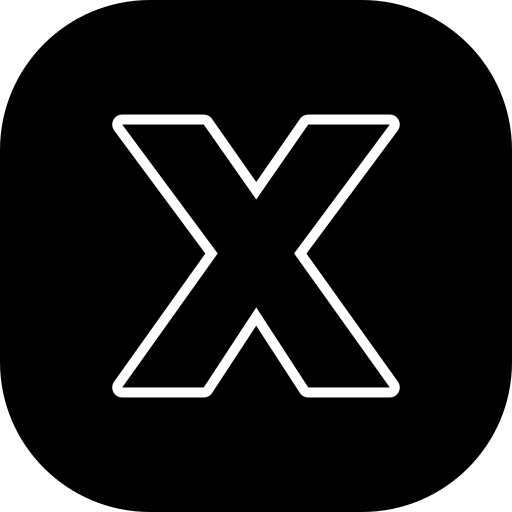
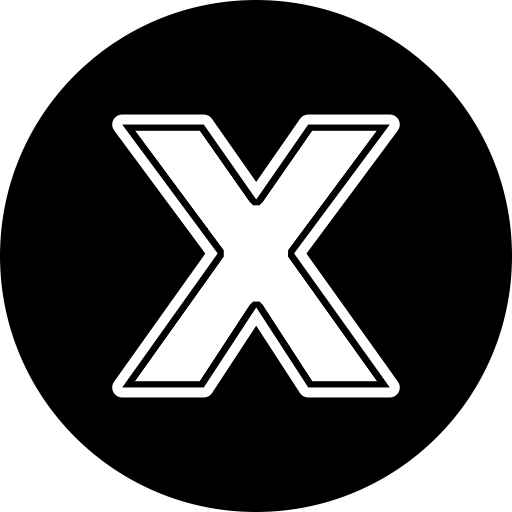
ajustes

diff --git a/js/main.js b/js/main.js
@@ -1,6 +1,6 @@
 let isAPIWorking;
-let currentArray;
 
+let currentArray;
 const products = JSON.parse(localStorage.products);
 function getProducts() {
     return new Promise((resolve, reject) => {
@@ -9,10 +9,10 @@ function getProducts() {
 
         setTimeout(() => {
             if (APIError > 0.05) {
-                resolve({error: false, products: products})
+                resolve({products: products})
             }
             else {
-                reject({error: true})
+                reject()
             }
         }, 2000);
     })
@@ -26,11 +26,10 @@ APIResponse.then((response) => {
     renderProducts(currentArray);
     verifyPage();
 })
-.catch((response) => {
-    if (response.error) {
-        errorLoadingScreen();
-        isAPIWorking = false;
-    }
+.catch(() => {
+    isAPIWorking = false;
+    errorLoadingScreen();
+    
 });
 
 //Simulación de un error en la API
@@ -205,17 +204,20 @@ function verifyPage(action) {
 const resultsIndicator = document.getElementById("filters__indicator");
 const priceRangeText = document.getElementById("price__range__text");
 const priceRangeSlider = document.getElementById("price__range");
-priceRangeSlider.addEventListener("change", filterByPrice);
-
-priceRangeSlider.addEventListener("input", () => {
-    const priceRange = priceRangeSlider.value * 6;
-    if (priceRange !== 0) {
-        priceRangeText.innerText = `Less than $${priceRange}`;
+setTimeout(() => {
+    if (isAPIWorking) {
+        priceRangeSlider.addEventListener("change", filterByPrice);
+        priceRangeSlider.addEventListener("input", () => {
+            const priceRange = priceRangeSlider.value * 6;
+            if (priceRange !== 0) {
+                priceRangeText.innerText = `Less than $${priceRange}`;
+            }
+            else {
+                priceRangeText.innerText = "Any price";
+            }
+        });
     }
-    else {
-        priceRangeText.innerText = "Any price";
-    }
-});
+}, 2000);
 
 function filterByPrice() {
     const priceRange = priceRangeSlider.value * 6;
@@ -440,9 +442,19 @@ function emptyCart() {
 //Busqueda de productos
 const searchProductsContainer = document.getElementById("search__bar__games");
 const searchBar = document.getElementById("search__bar");
-searchBar.addEventListener("input", searchProducts);
-searchBar.addEventListener("focus", searchProducts);
-searchBar.addEventListener("blur", () => {searchProductsContainer.innerHTML = ""});
+setTimeout(() => {
+    if (isAPIWorking) {
+        searchBar.addEventListener("input", searchProducts);
+        searchBar.addEventListener("focus", searchProducts);
+        searchBar.addEventListener("blur", () => {
+            if (searchBar.value.length === 0) {
+                setTimeout(() => {
+                    searchProductsContainer.innerHTML = "";
+                }, 250);
+            }
+        });
+    }
+}, 2000);
 
 function searchProducts() {
     if (searchBar.value.length > 0) {
@@ -459,11 +471,6 @@ function searchProducts() {
 
                 const h4 = document.createElement("h4");
                 h4.innerText = `${product.title}`;
-
-                const indexproduct = cart.indexOf(product);
-                if (cart[indexproduct] === product) { //Si alguno de los productos buscados ya está en el carrito
-                    h4.innerText += " (in your cart)";
-                }
 
                 h4.className = "search__bar__games__item__texts";
 

diff --git a/index.html b/index.html
@@ -7,6 +7,7 @@
         <link rel="stylesheet" type="text/css" href="https://cdn.jsdelivr.net/npm/toastify-js/src/toastify.min.css">
         <script src="js/products.js"></script>
         <link rel="stylesheet" href="css/styles.css">
+        <link rel="shortcut icon" href="media/x_icon.png" type="image/x-icon">
         <title>GameX · Home</title>
     </head>
     <body class="scroll" id="body">
@@ -93,9 +94,7 @@
 
                             <!-- ERROR -->
                             <div id="error__elements">
-                                <svg xmlns="http://www.w3.org/2000/svg" height="50px" viewBox="0 -960 960 960" width="50px" fill="red"><path d="M479.98-280q14.02 0 23.52-9.48t9.5-23.5q0-14.02-9.48-23.52t-23.5-9.5q-14.02 0-23.52 9.48t-9.5 23.5q0 14.02 9.48 23.52t23.5 9.5ZM453-433h60v-253h-60v253Zm27.27 353q-82.74 0-155.5-31.5Q252-143 197.5-197.5t-86-127.34Q80-397.68 80-480.5t31.5-155.66Q143-709 197.5-763t127.34-85.5Q397.68-880 480.5-880t155.66 31.5Q709-817 763-763t85.5 127Q880-563 880-480.27q0 82.74-31.5 155.5Q817-252 763-197.68q-54 54.31-127 86Q563-80 480.27-80Zm.23-60Q622-140 721-239.5t99-241Q820-622 721.19-721T480-820q-141 0-240.5 98.81T140-480q0 141 99.5 240.5t241 99.5Zm-.5-340Z"/></svg>
-                                <h3>API load time exceeded</h3>
-                                <h4>Try reloading the page</h4>
+                                
                             </div>
                         </div>
                         <div id="cards__container">

diff --git a/pages/purchase_history.html b/pages/purchase_history.html
@@ -4,6 +4,7 @@
         <meta charset="UTF-8">
         <meta name="viewport" content="width=device-width, initial-scale=1.0">
         <link rel="stylesheet" href="../css/styles.css">
+        <link rel="shortcut icon" href="media/x_icon.png" type="image/x-icon">
         <title>GameX · Purchase History</title>
     </head>
     <body>

diff --git a/pages/payment__end.html b/pages/payment__end.html
@@ -4,6 +4,7 @@
         <meta charset="UTF-8">
         <meta name="viewport" content="width=device-width, initial-scale=1.0">
         <link rel="stylesheet" href="../css/styles.css">
+        <link rel="shortcut icon" href="media/x_icon.png" type="image/x-icon">
         <title>GameX · Thank you!</title>
     </head>
     <body>

diff --git a/pages/payment.html b/pages/payment.html
@@ -4,6 +4,7 @@
         <meta charset="UTF-8">
         <meta name="viewport" content="width=device-width, initial-scale=1.0">
         <link rel="stylesheet" href="../css/styles.css">
+        <link rel="shortcut icon" href="media/x_icon.png" type="image/x-icon">
         <title>GameX · Payment</title>
     </head>
     <body>

diff --git a/css/styles.css b/css/styles.css
@@ -510,14 +510,10 @@ footer {
 
 #loading__elements,
 #error__elements {
-    display: none;
+    display: flex;
     flex-direction: column;
     align-items: center;
     text-wrap: nowrap;
-}
-
-#loading__elements {
-    display: flex;
 }
 
 #loading__elements h3 {
